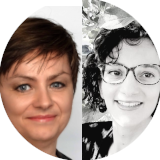
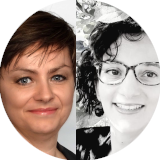
remplacement image

diff --git a/js/app.js b/js/app.js
@@ -116,7 +116,7 @@ define([
       this.renderTariff();
       this.renderDownload();
       this.renderActivity();
-      this.renderPic();
+    //  this.renderPic();
 
       this.setMenuEvents();
     },
